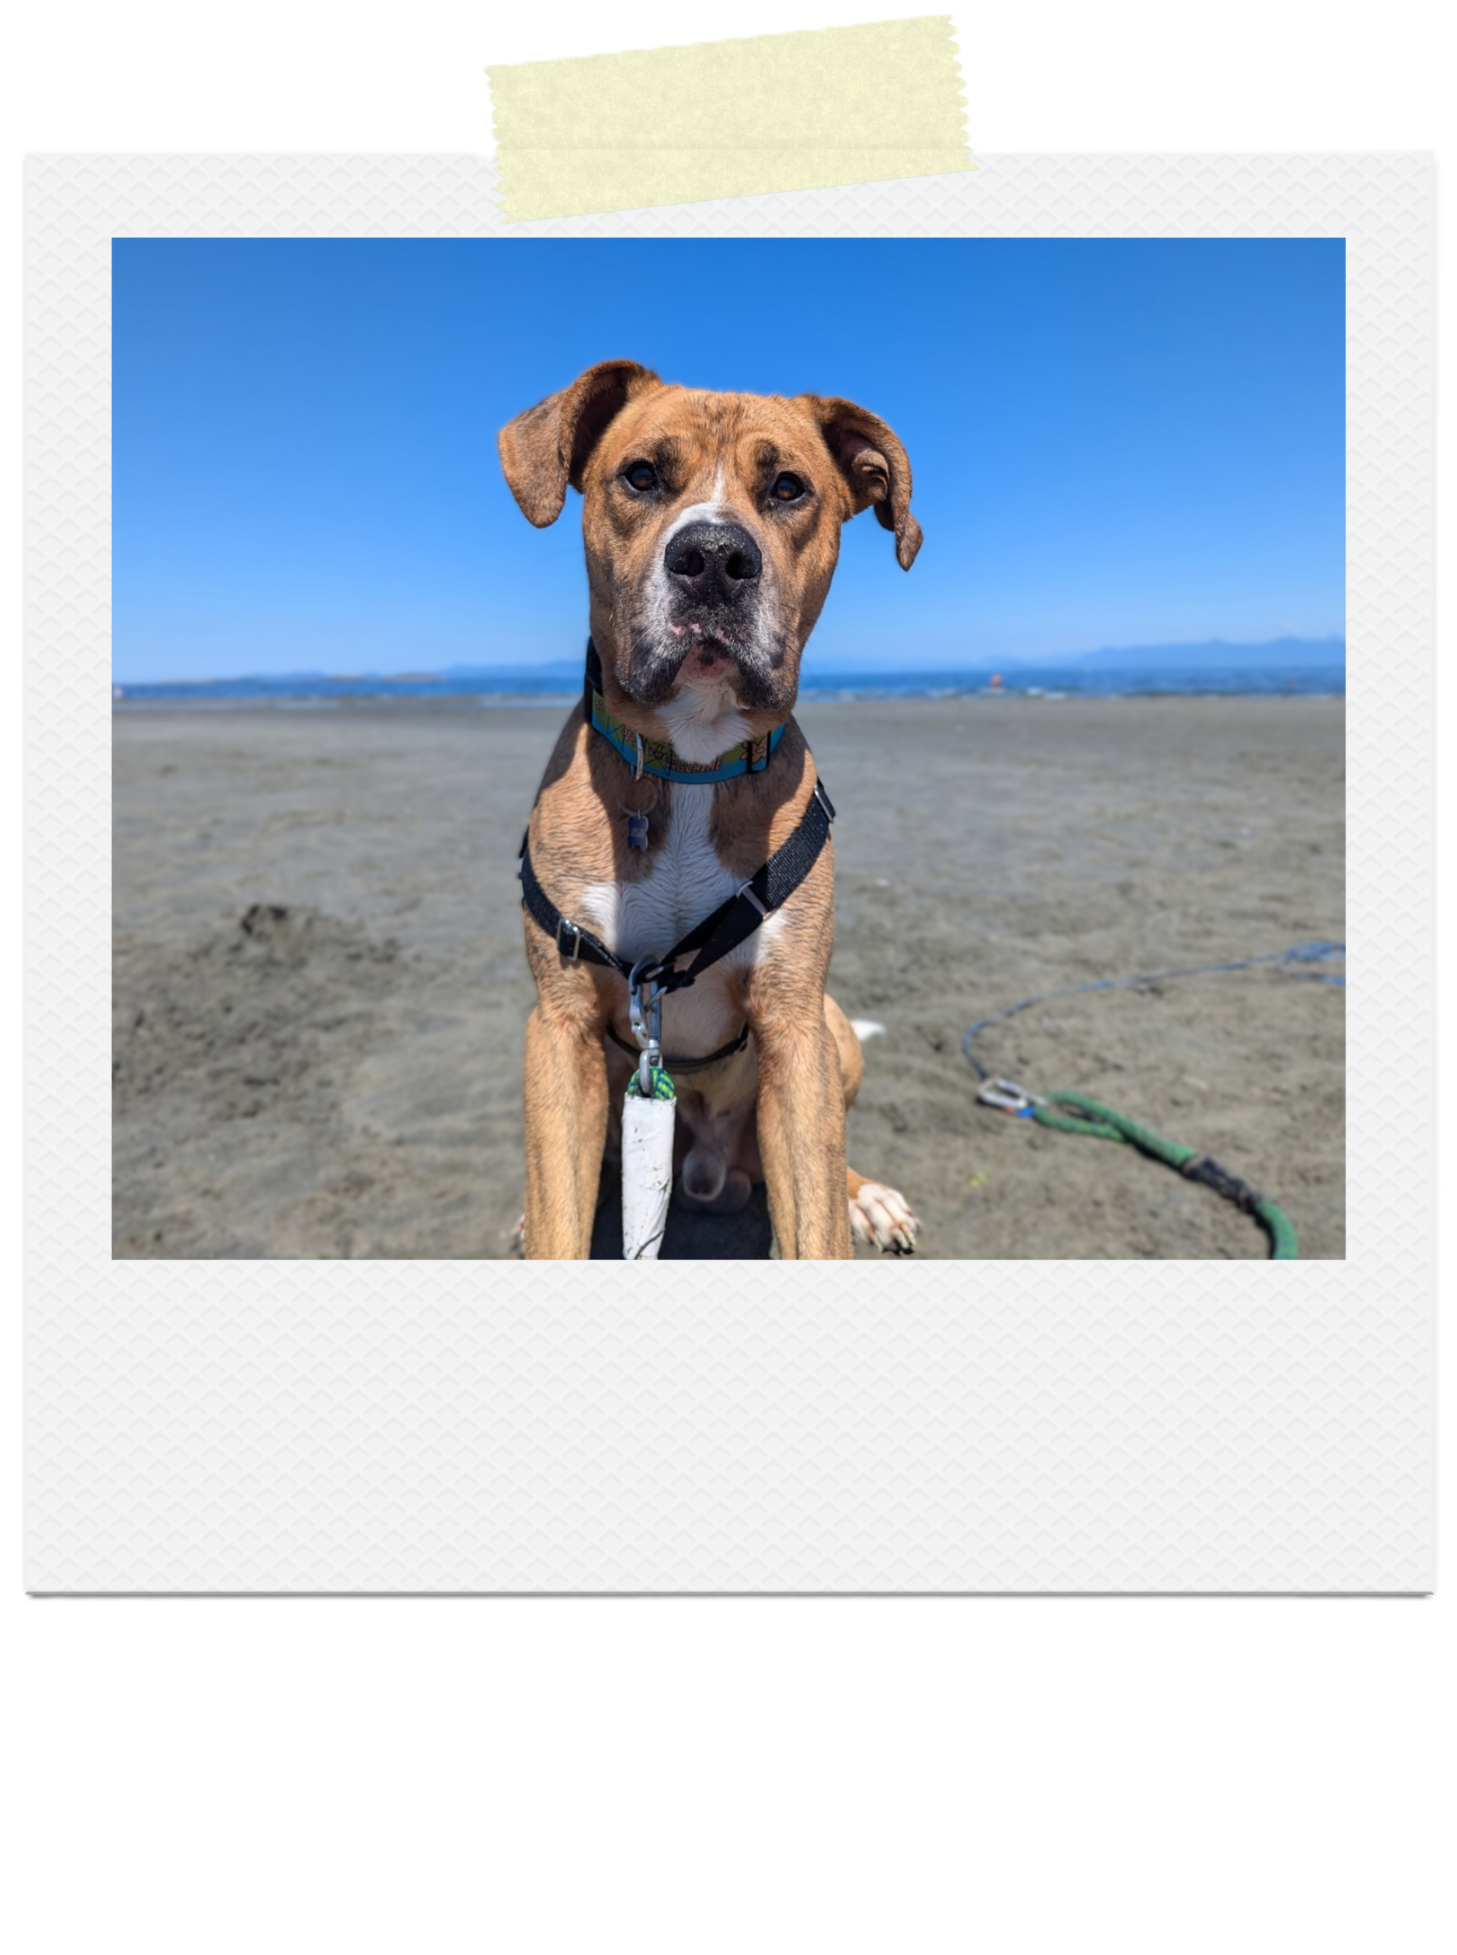
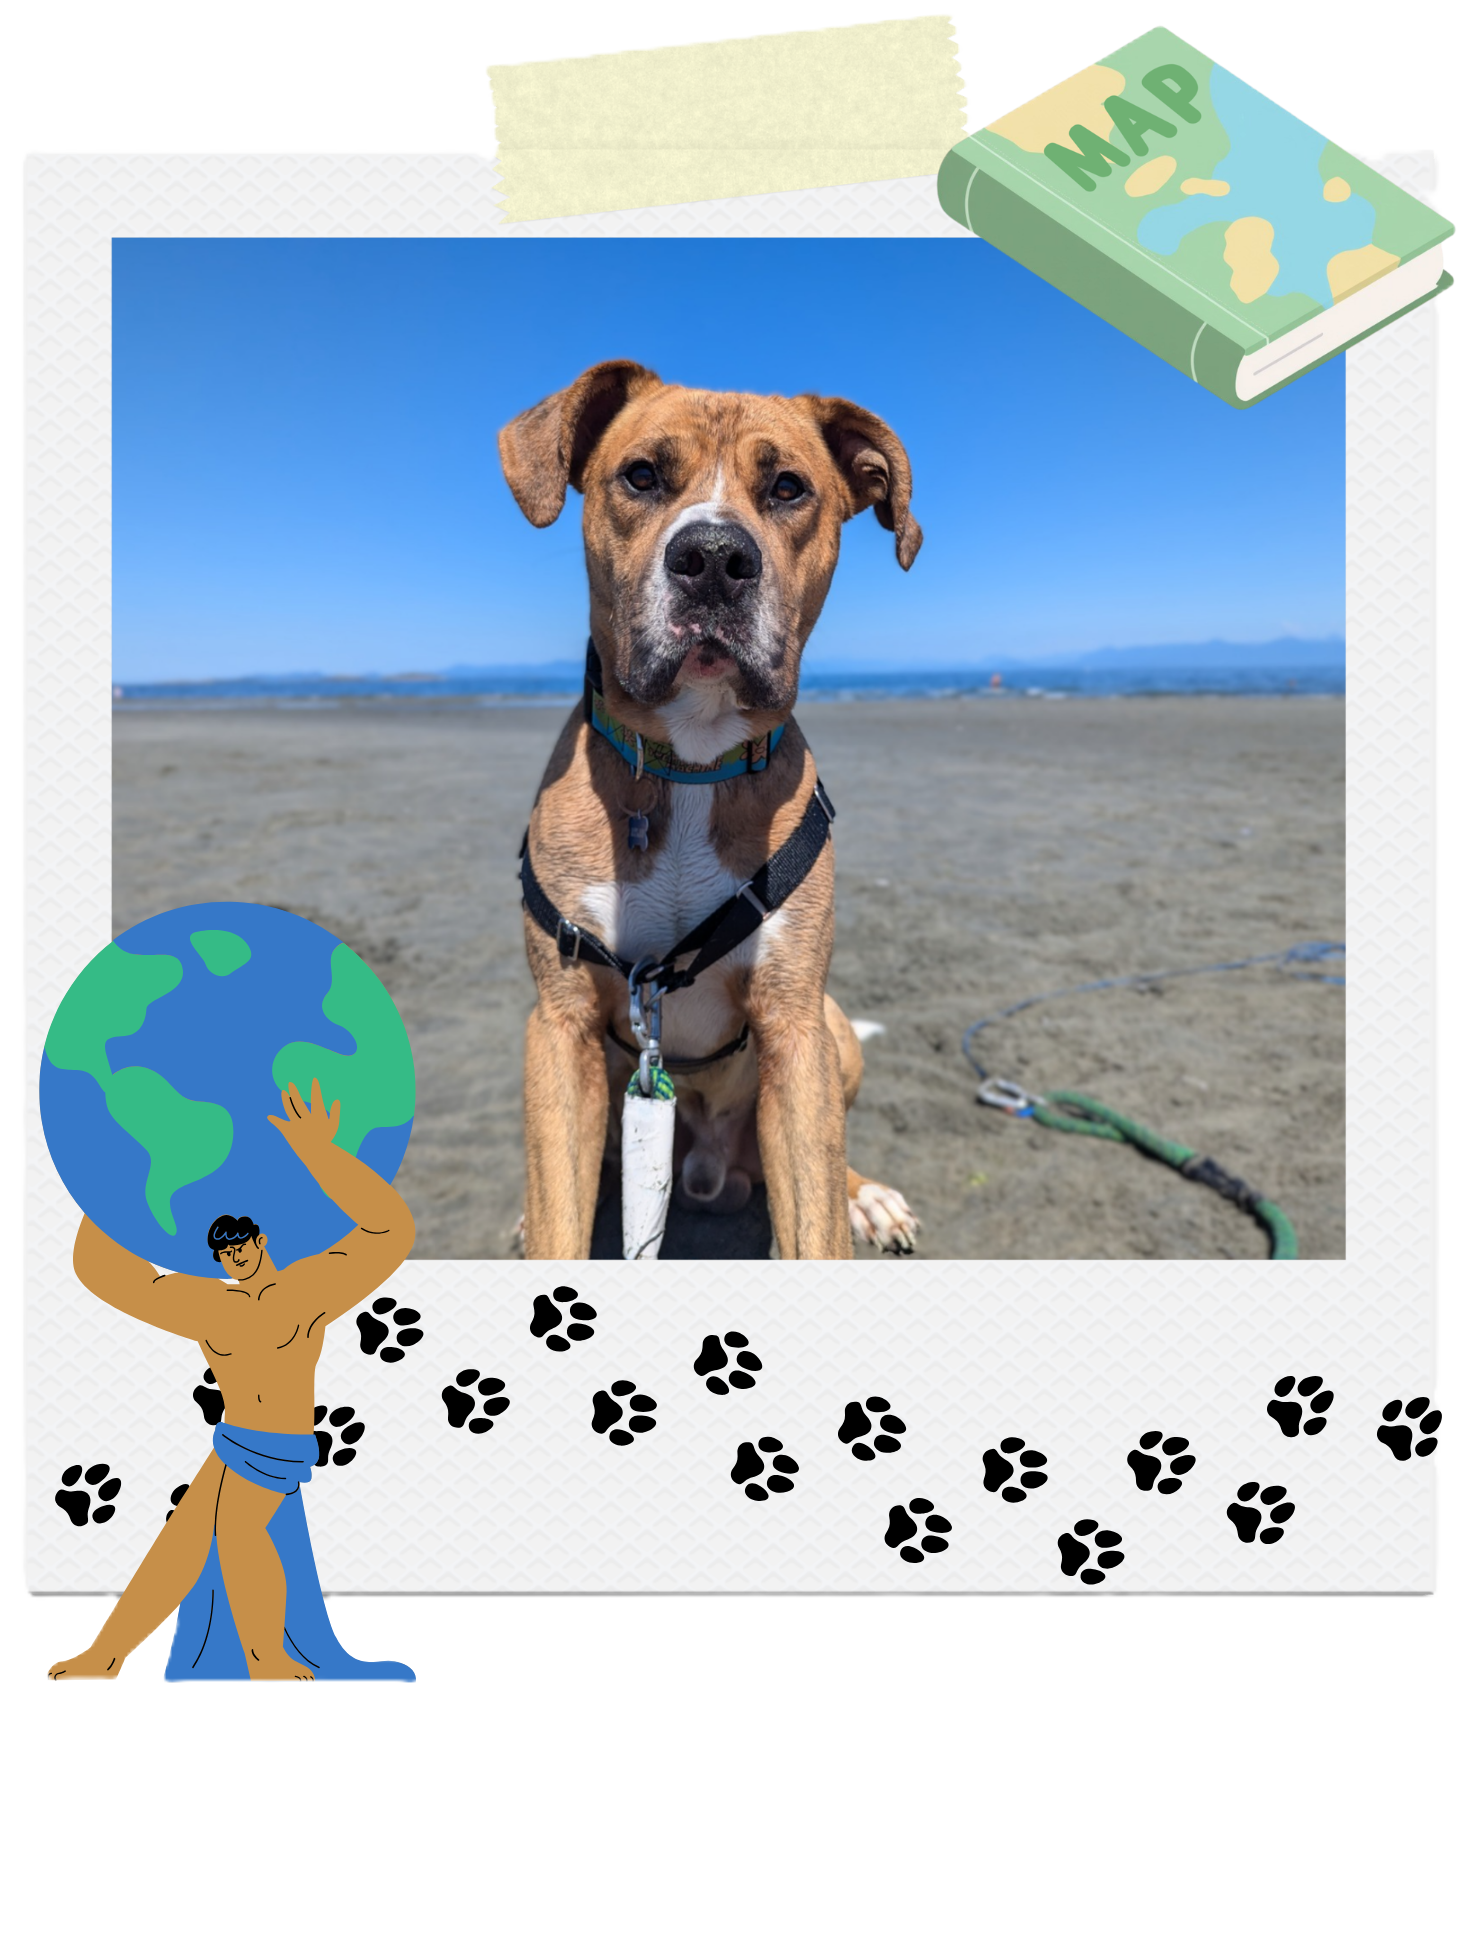
Final Capstone Push

diff --git a/index.html b/index.html
@@ -4,47 +4,80 @@
         <title>Atlas of Atlas</title>
          <meta charset="utf-8">
          <link rel="stylesheet" href="style.css">
-         <link href="https://fonts.googleapis.com/css2?family=Mansalva&family=Noto+Serif:ital,wght@0,100..900;1,100..900&display=swap" rel="stylesheet">
+         <link href="https://fonts.googleapis.com/css2?family=Orbitron:wght@400..900&display=swap" rel="stylesheet">
     </head>
     <body> 
         <section>
-                <h1>Atlas of Atlas</h1> <div id="top-of-page"></div>
+            <div class="banner" id="top-of-page">
+                <h1>Atlas of Atlas</h1>
                     <h2>A personal map of this daniff's life on S'ólh Téméxw.</h2>
-                </section>
-                <section>
-                    <h3><u>About the Author</u></h3>
-                        <img src="Images/atlas_about_author.png" alt="A photo of Atlas" width="300" height="400"/>
-                        <p>Hi my name is <em>Atlas!</em> I am a (almost) four year old Great Dane English & Masstiff (also called a Daniff) dog who has just moved to Mission, BC from North Vancouver, BC. I live with my Mom and spare human, aka Dad. My hobbies include sleeping, crying for attention, and playing with my loud toys. I am a very friendly boy and love meeting new friends. I am also very curious and love exploring new places to pee on. I hope to share my adventures with you through this atlas!</p>
-                </section>
-                <section>
-                    <h4><u>My Favourite Places to Pee in my New Neighbourhood</u></h4>
+            </div>
+        </section>
+        <section>
+            <div class="abouttheauthor">
+                <h3><u>About the Author</u></h3>
+                    <img src="Images/atlas_about_author.png" alt="A photo of Atlas" width="300" height="400"/>
+                    <p>Hi my name is <em>Atlas!</em> I am a (almost) four year old Great Dane English & Masstiff (also called a Daniff) dog who has just moved to Mission, BC from North Vancouver, BC. I live with my Mom and spare human, aka Dad. My hobbies include sleeping, crying for attention, and playing with my loud toys. I am a very friendly boy and love meeting new friends. I am also very curious and love exploring new places to pee on. I hope to share my adventures with you through this atlas!</p>
+            </div>
+        </section>
+        <div style="break-after: page;"></div>
+        <section>
+            <div class="favouriteplaces">
+                <h4><u>My Favourite Places to Pee in my New Neighbourhood</u></h4>
                     <p>Since moving to my new neighbourhood, I have discovered several favourite spots to pee on: </p>
-                    <ol>
-                        <li>The right back corner of the backyard. I deserve only the best private pee spots for me.</li>
-                        <li>The tree across the street from my house. </li>
+                        <ol>
+                            <li>The right back corner of the backyard. I deserve only the best private pee spots for me.</li>
+                            <li>The tree across the street from my house. </li>
+                            <ul>
+                                <li>My Mom gets mad when I pee on the tree because it's in the neighbour's yard, but this one is fair game as its a tree and outside. Im not allowed to pee on anything inside so I'm following the rules.</li>
+                            </ul>
+                            <li>Hatzic Park!</li>
+                            <ul>
+                                <li>it has so many new smells and other animals! My favourite friend is the giant black dog, mom says his name is holycrapabear, that is there sometimes but I'm not allowed to visit him despite he and mom are family!</li>
+                            </ul>
+                            <li>My Nonna and Papa's backyard!</li>
+                            <ul>
+                                <li> I am so happy we moved closer to her but <strong>I will not go into the giant nature bath; I hate baths!</strong></li>
+                            </ul>
+                            <li> The Christmas tree! </li>
+                            <ul>
+                                <li> Mom and Dad get one every year for my gotcha day and decorate the house with lights and shiney snow ornaments. So to join in the celebration I try to pee on it for the whole month then they give me toys! </li>
+                                <!-- Comment in HTML -->
+                            </ul>
+                        </ol>
+            </div>
+            <div id="favouriteplacesimg">
+                <img src="Images/fav-nonna.png" alt="Atlas catching a stick in his nonna's yard" width="300" height="400">
+                <img src="Images/fav-christmas.png" alt="Atlas sleeping in front of the Christmas tree" width="300" height="400">
+            </div>
+        </section>
+        <section>
+            <div id="dayinthelifeimg">
+                <img src="Images/ditl-backyard.png" alt="Atlas in his playing in the backyard" width="300" height="400">
+                <img src="Images/ditl-sleep.png" alt="Atlas ina silk bonnet yawning in bed" width="300" height="400">
+            </div>
+            <div class="dayinthelife">
+                <h4><u>A Day in the Life of Atlas</u></h4>
+                    <p>I work hard to keep my humans entertained and on their toes. I have a very busy schedule that includes the following activities:</p>
                         <ul>
-                            <li>My Mom gets mad when I pee on the tree because it's in the neighbour's yard, but this one is fair game as its a tree and outside. Im not allowed to pee on anything inside so I'm following the rules.</li>
+                            <li>1:42 am: claw my way under the blankets where mom and dad are sleeping and spin as many times as it takes to tangle myself up in all the blankets </li>
+                            <li>5am: dad leaves for work and I get my spot in the bed back</li>
+                            <li>8:45am: Mom leave for class and I get my spot in the bed back</li>
+                            <li>11:12am: Eat my breakfast then scream and cry until i get to go for a pee in the backyard even though mom is busy in class</li>
+                            <li>1:42pm: become captain chaos and play with the loudest toys i own while mom is on zoom</li>
+                            <li>6pm: Dad comes home and we play piggy in the middle; though pretty sure I am not a pig.</li>
+                            <li>8:52pm: It's bedtime but I am not tired so I try to get under the blankets again and start the cycle all over again</li>
                         </ul>
-                        <li>Hatzic Park!</li>
-                        <ul>
-                            <li>it has so many new smells and other animals! My favourite friend is the giant black dog, mom says his name is holycrapabear, that is there sometimes but I'm not allowed to visit him despite he and mom are family!</li>
-                        </ul>
-                        <li>My Nonna and Papa's backyard!</li>
-                        <ul>
-                            <li> I am so happy we moved closer to her but <strong>I will not go into the giant nature bath; I hate baths!</strong></li>
-                        </ul>
-                        <li> The Christmas tree! </li>
-                        <ul>
-                            <li> Mom and Dad get one every year for my gotcha day and decorate the house with lights and shiney snow ornaments. So to join in the celebration I try to pee on it for the whole month then they give me toys! </li>
-                        </ul>
-                    </ol>
-                </section>
-                <footer> 
-                    <p>Atlas of Atlas by Atlas the Daniff (not my mom Barbara-Jean Wooding). 2026</p>
-                    <p>Photo of Atlas Credit by Atlas the Daniff (not my mom Barbara-Jean Wooding). 2023-2026</p>
-                    <p>Follow me on Instagram because I'm cute! <a href="https://www.instagram.com/atlas_of_atlas/" target="_blank" rel="noopener noreferrer">@atlas_of_atlas</a></p>
-                    <p><a href="#top-of-page">Click here to go to the top of the page!</a></p>
-                    <img src="https://cdn.pixabay.com/animation/2024/04/19/03/00/03-00-03-182_256.gif" style="transform: rotate(90deg);" alt="GIF of Dog Paws walking across page by Ha_Nyguyen_monslide365"/>
-                </footer>
+            </div>
+        </section>
+        <footer>
+            <div class="footer">
+                <p>Atlas of Atlas by Atlas the Daniff (not my mom Barbara-Jean Wooding). 2026</p>
+                <p>Photo of Atlas Credit by Atlas the Daniff (not my mom Barbara-Jean Wooding). 2023-2026</p>
+                <p>Follow me on Instagram because I'm cute! <a href="https://www.instagram.com/atlas_of_atlas/" target="_blank" rel="noopener noreferrer">@atlas_of_atlas</a></p>
+                <p><a href="#top-of-page">Click here to go to the top of the page!</a></p>
+                <img src="https://cdn.pixabay.com/animation/2024/04/19/03/00/03-00-03-182_256.gif" style="transform: rotate(90deg);" alt="GIF of Dog Paws walking across page by Ha_Nyguyen_monslide365"/>
+            </div>
+        </footer>
     </body>
 </html> 

diff --git a/style.css b/style.css
@@ -1,53 +1,104 @@
 /*This is a comment */
 body {
-    background-color: rgb(0, 247, 255);
+    background-image: url(images/cork-board.png);
     color: darkslateblue;
-    font-family: 'noto serif', georgia, serif;
+    font-family: 'orbitron', sans-serif;
     font-size: 14px;
     text-align: center;
-    
+}
+.banner {
+    background-image: url(images/banner.png);
+    background-size: cover;
+    Background-position: center;
+    padding: 300px;
+    margin-bottom: 20px;
+
 }
 h1 {
     color: rgb(0, 0, 0);
-    font-family: 'mansalva', cursive;
-    font-size: 50px; 
-    font-weight: lighter;
-    font-style: italic;
+    font-family: 'orbitron', cursive;
+    font-size: 100px;
+    font-weight: bolder;
     line-height: 1;
     text-decoration: underline;
-
+    margin-top: -150px;    
 }
 h2 {
     color: rgb(0, 0, 0);
-    font-family: 'arial', serif;
+    font-family: 'orbitron', serif;
     font-size: 25px;
-    font-weight: lighter;
     line-height: 1;
-    text-decoration: underline;
+    margin-top: -40px;
 }
-
-h3 {
+.abouttheauthor {
+    font-family: 'arial', georgia, serif;
+    font-size: 20px;
+    color: rgb(8, 6, 24);
+    margin: 20px;
+    padding: 10px;
+    border: 2px solid darkslateblue;
+    background-color: rgb(245, 138, 197);
+    
+}
+.abouttheauthor h3 {
     color: rgb(0, 0, 0);
-    font-family: 'mansalva', cursive;
     font-size: 30px;
     font-weight: 900;
-    font-style: normal;
     text-align: center;
-    text-decoration: underline;
-        
 }
-ul,li {
+
+.favouriteplaces {
+    font-family: 'arial', georgia, serif;
+    font-size: 16px;
+    color: rgb(12, 7, 46);
     text-align: left;
-    font-family: 'noto serif', georgia, serif;
-    font-size: 14px;
-    color: darkslateblue;
+    max-width: 600px;
+    margin-bottom: 90px;
+    margin: 20px;
+    padding: 10px;
+    border: 2px solid darkslateblue;
+    background-color: rgb(0, 230, 88);
 }
-Footer p {
-    font-family: 'noto serif', georgia, serif;
+
+.favouriteplaces h4 {
+    font-family: 'orbitron', georgia, serif;
+    color: rgb(0, 0, 0);
+    font-size: 25px;
+    font-weight: 900;
+    text-align: left;  
+}
+.dayinthelife {
+    font-family: 'arial', georgia, serif;
+    font-size: 16px;
+    color: rgb(12, 7, 46);
+    text-align: left;
+    max-width: 600px;
+    margin-bottom: 90px;
+    margin: 20px;
+    padding: 10px;
+    border: 2px solid darkslateblue;
+    background-color: rgb(221, 240, 46);
+    display: grid;
+}
+.dayinthelife h4 {
+    font-family: 'orbitron', georgia, serif;
+    color: rgb(0, 0, 0);
+    font-size: 25px;
+    font-weight: 900;
+    text-align: left;  
+}
+
+.footer {
+    font-family: 'orbitron', georgia, serif;
     font-size: 12px;
-    color: rgb(34, 25, 94);
-    text-align: right;
+    color: rgb(241, 171, 218);
+    text-align: center;
     font-style: bold;
+    margin: 20px;
+    padding: 1 px;
+    border: 2px solid rgb(250, 200, 235);
+    background-color: rgb(59, 46, 240);
+   
 }
 a {
     color: rgb(255, 0, 149);
@@ -62,7 +113,7 @@ a:active {
     text-decoration: none;
 }
 a:visited {
-    color: rgb(255, 0, 0);
+    color: rgb(0, 0, 0);
     text-decoration: none;
 }
 a:focus {